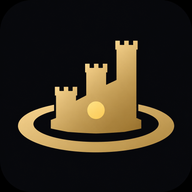
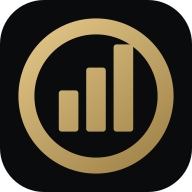
Simplify the brand mark to a moat ring and three bars
Strip crenellations, the inner disc, and the elliptical keep so the
glyph is a circular moat around three rising bars — still InvestMoat,
readable at 16px. Favicon is rasterized from the same SVG.

diff --git a/src/components/MoatMark.tsx b/src/components/MoatMark.tsx
@@ -1,30 +1,29 @@
 import React from 'react';
 
 /**
- * InvestMoat brand mark — a keep standing in a circular moat, with three
- * rising crenellated towers that read as both a fortress and a growth chart.
- * The disc cut out of the keep is the protected core (capital). Fill-based
- * so it stamps cleanly at small sizes and inherits `currentColor`.
+ * InvestMoat brand mark — a circular moat around three rising bars.
+ * Stroke + fill, inherits `currentColor`, stamps cleanly at 16px.
  */
 export function MoatMark({
   className,
+  strokeWidth = 2,
 }: {
   className?: string;
-  /** Kept for call-site compatibility; the filled mark does not stroke. */
   strokeWidth?: number;
 }) {
   return (
     <svg viewBox="0 0 24 24" fill="currentColor" className={className} aria-hidden="true">
-      {/* Moat — thick elliptical water ring around the keep */}
-      <path
-        fillRule="evenodd"
-        d="M12 13.4a9.65 3.9 0 1 0 .02 0Zm0 1.55a6.5 2.15 0 1 0 .02 0Z"
+      <circle
+        cx="12"
+        cy="12"
+        r="8.7"
+        fill="none"
+        stroke="currentColor"
+        strokeWidth={strokeWidth}
       />
-      {/* Keep — three rising towers with merlons; circular core is a cutout */}
-      <path
-        fillRule="evenodd"
-        d="M7.2 16.3V11.4h.5V9.15h2.25V11.4H10.4V8.15h.55V5.85h2.35V8.15H13.8V5.35h.6V3.05h2.5V5.35h.55V16.3H7.2Zm3.75-2.75a1.35 1.35 0 1 0 2.7 0 1.35 1.35 0 1 0-2.7 0Z"
-      />
+      <rect x="7.35" y="11.3" width="2.45" height="5.15" rx="0.35" />
+      <rect x="10.775" y="8.45" width="2.45" height="8" rx="0.35" />
+      <rect x="14.2" y="5.55" width="2.45" height="10.9" rx="0.35" />
     </svg>
   );
 }

diff --git a/docs/DESIGN-SYSTEM.md b/docs/DESIGN-SYSTEM.md
@@ -59,8 +59,8 @@ Ambient gold glows, the gold scrollbar, and gold text selection are also defined
 
 ## Brand mark & favicon
 
-- [`src/components/MoatMark.tsx`](../src/components/MoatMark.tsx) — the logo glyph: a keep standing in a circular moat, with three rising crenellated towers that read as both a fortress and a growth chart, and a disc for the protected core. Fill-based, inherits `currentColor`, used inside the gold nav tile.
-- Favicon (same keep-in-a-moat mark, gold on a dark rounded tile): [`src/app/favicon.ico`](../src/app/favicon.ico) (16/32/48), [`src/app/icon.png`](../src/app/icon.png) (192), [`src/app/apple-icon.png`](../src/app/apple-icon.png) (180). Next.js App Router file conventions pick these up automatically.
+- [`src/components/MoatMark.tsx`](../src/components/MoatMark.tsx) — the logo glyph: a circular moat around three rising bars (invest + moat). Inherits `currentColor`, used inside the gold nav tile.
+- Favicon (same mark, gold on a dark rounded tile): [`src/app/favicon.ico`](../src/app/favicon.ico) (16/32/48), [`src/app/icon.png`](../src/app/icon.png) (192), [`src/app/apple-icon.png`](../src/app/apple-icon.png) (180). Next.js App Router file conventions pick these up automatically.
 
 ## OpenGraph / social images
 
